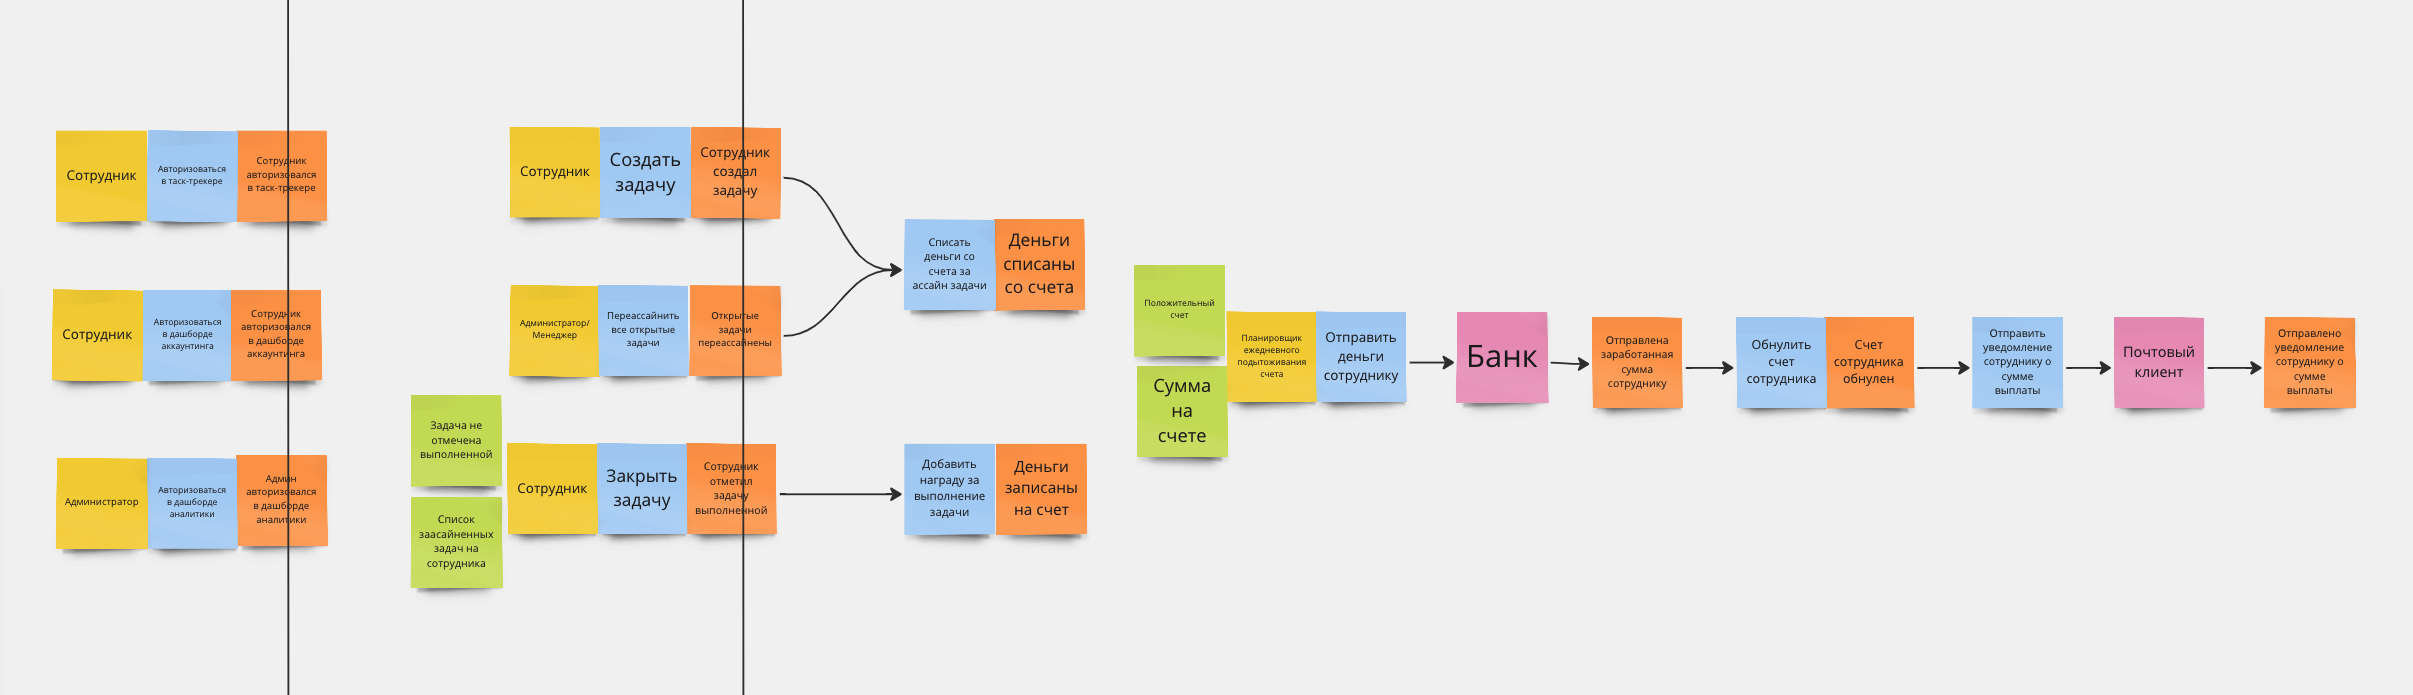
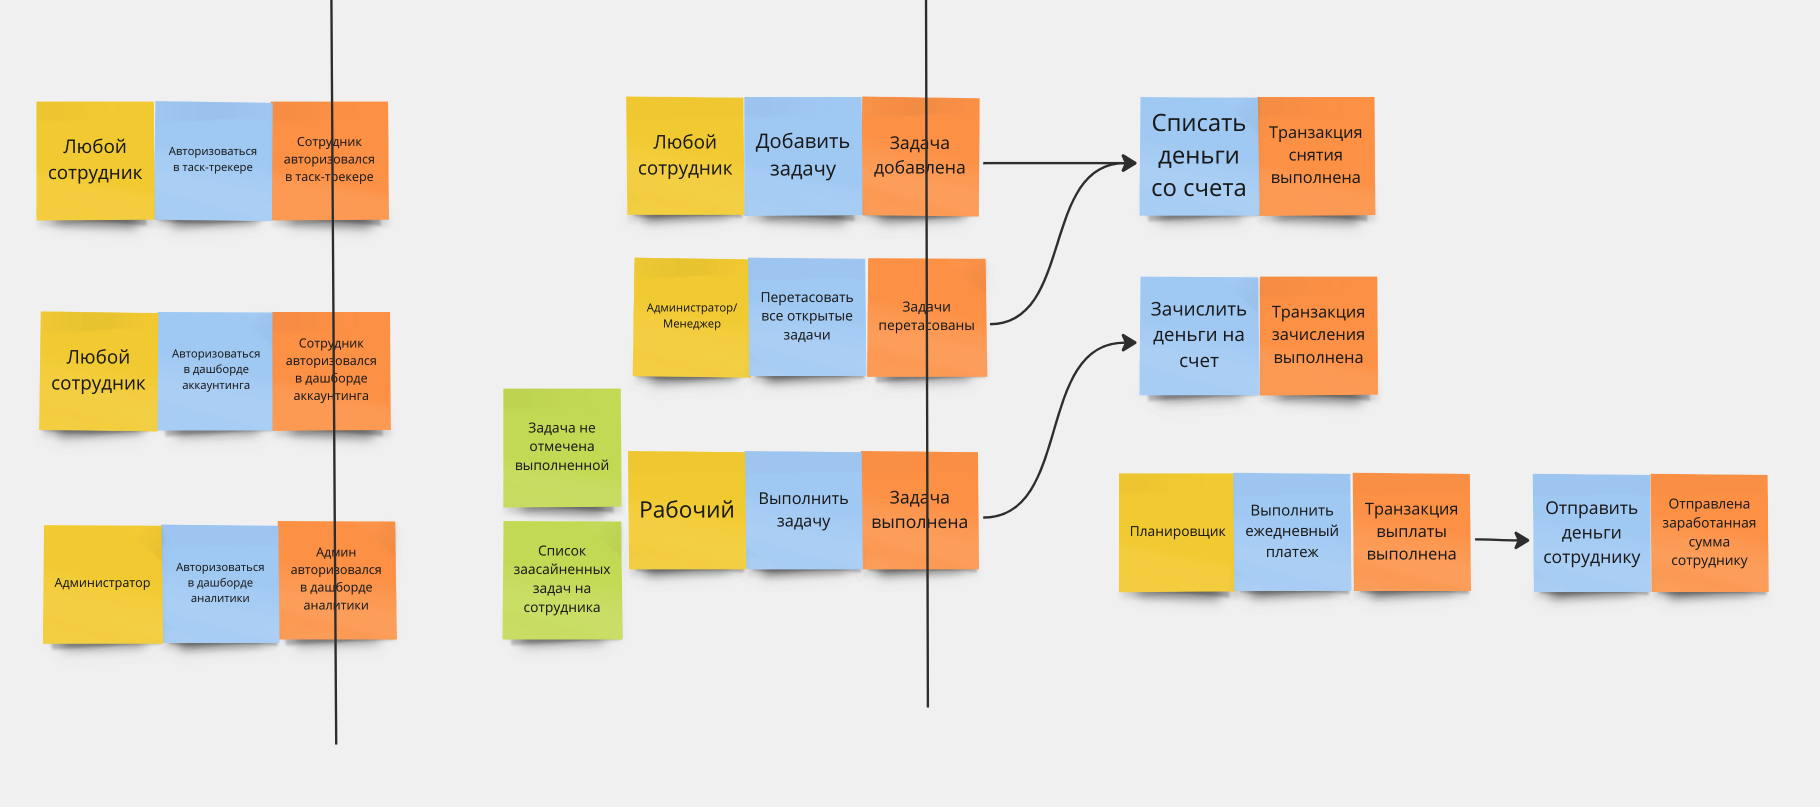
Исправил замечания после разбора домашки

diff --git a/docs/events/DOCS.md b/docs/events/DOCS.md
@@ -5,77 +5,70 @@
 - Авторизация
 - Таск-трекер
 - Аккаунтинг
-- Выплаты
-- BFF Аккаунтинга
 - Аналитика
 
 ## BE между сервисами
-### Сотрудник создал задачу
+### Задача добавлена
 * продюсер - таск-трекер
 * консюмеры - аккаунтинг
 * данные - pid ассайнутого сотрудника + pid задачи + описание задачи + сумма списания
 
-### Открытые задачи переассайнены
+### Задачи перетасованы
 * продюсер - таск-трекер
 * консюмеры - аккаунтинг
 * данные (batch) - pid ассайнутого сотрудника + pid задачи + описание задачи + сумма списания
 
-### Cотрудник отметил задачу выполненной
+### Задача выполнена
 * продюсер - таск-трекер
 * консюмеры - аккаунтинг
 * данные - pid ассайнутого сотрудника + pid задачи + сумма вознаграждения
 
-### Авторизация в таск-трекере
+### Сотрудник авторизовался в таск-трекере
 * синхронный флоу - сервис авторизации -> таск-трекер
 * данные - клюв -> JWT(pid + роль)
 
-### Авторизация в BFF аккаунтинга
-* синхронный флоу - сервис авторизации -> BFF аккаунтинга
+### Сотрудник авторизовался в дашборде аккаунтинга
+* синхронный флоу - сервис авторизации -> аккаунтинг
 * данные - клюв -> JWT(pid + роль)
 
-### Авторизация в аналитике
+### Админ авторизовался в дашборде аналитики
 * синхронный флоу - сервис авторизации -> аналитика
 * данные - клюв -> JWT(pid + роль)
 
 
 ## CUD события
-### Создание аккаунта
+### Создан аккаунт
 * продюсер - сервис авторизации
-* консюмеры - таск-трекер, аналитика, выплаты, аналитика
-* данные (только выплаты) - pid и почта акаунта
+* консюмеры - таск-трекер, аккаунтинг, аналитика
+* данные (только аккаунтг) - pid, роль и почта акаунта
 * данные (остальные) - pid и роль акаунта
 
-### Обновление роли аккаунта
+### Обновлена роль аккаунта
 * продюсер - сервис авторизации
-* консюмеры - таск-трекер, аналитика, выплаты, аналитика
+* консюмеры - таск-трекер, аккаунтинг, аналитика
 * данные - pid и роль акаунта
 
-### Обновление почты аккаунта
+### Обновлена почта аккаунта
 * продюсер - сервис авторизации
-* консюмеры - выплаты
+* консюмеры - аккаунтинг
 * данные - pid и почта акаунта
 
-### Обновление описания задачи
+### Обновлено описание задачи
 * продюсер - таск-трекер
 * консюмеры - аккаунтинг
 * данные - pid и описание задачи
 
-### Создание задачи
+### Создана задача
 * продюсер - таск-трекер
 * консюмеры - аналитика
-* данные - pid и вознаграждение задачи
+* данные - задача
 
-### Создание и обновления счета
+### Создан или обновлен счет
 * продюсер - аккаунтинг
-* консюмеры - выплаты и аналитика
-* данные - pid и сумма счета
+* консюмеры - аналитика
+* данные - счет
 
-### Обнуление счета
-* продюсер - выплаты
-* консюмеры - аккаунтинг
-* данные - pid счета
-
-### Создание аудит-лога
+### Создан аудит-лог
 * продюсер - аккаунтинг
 * консюмеры - аналитика
 * данные - pid аудитлога + pid аккаунта + pid задачи + сумма списания или начисления
